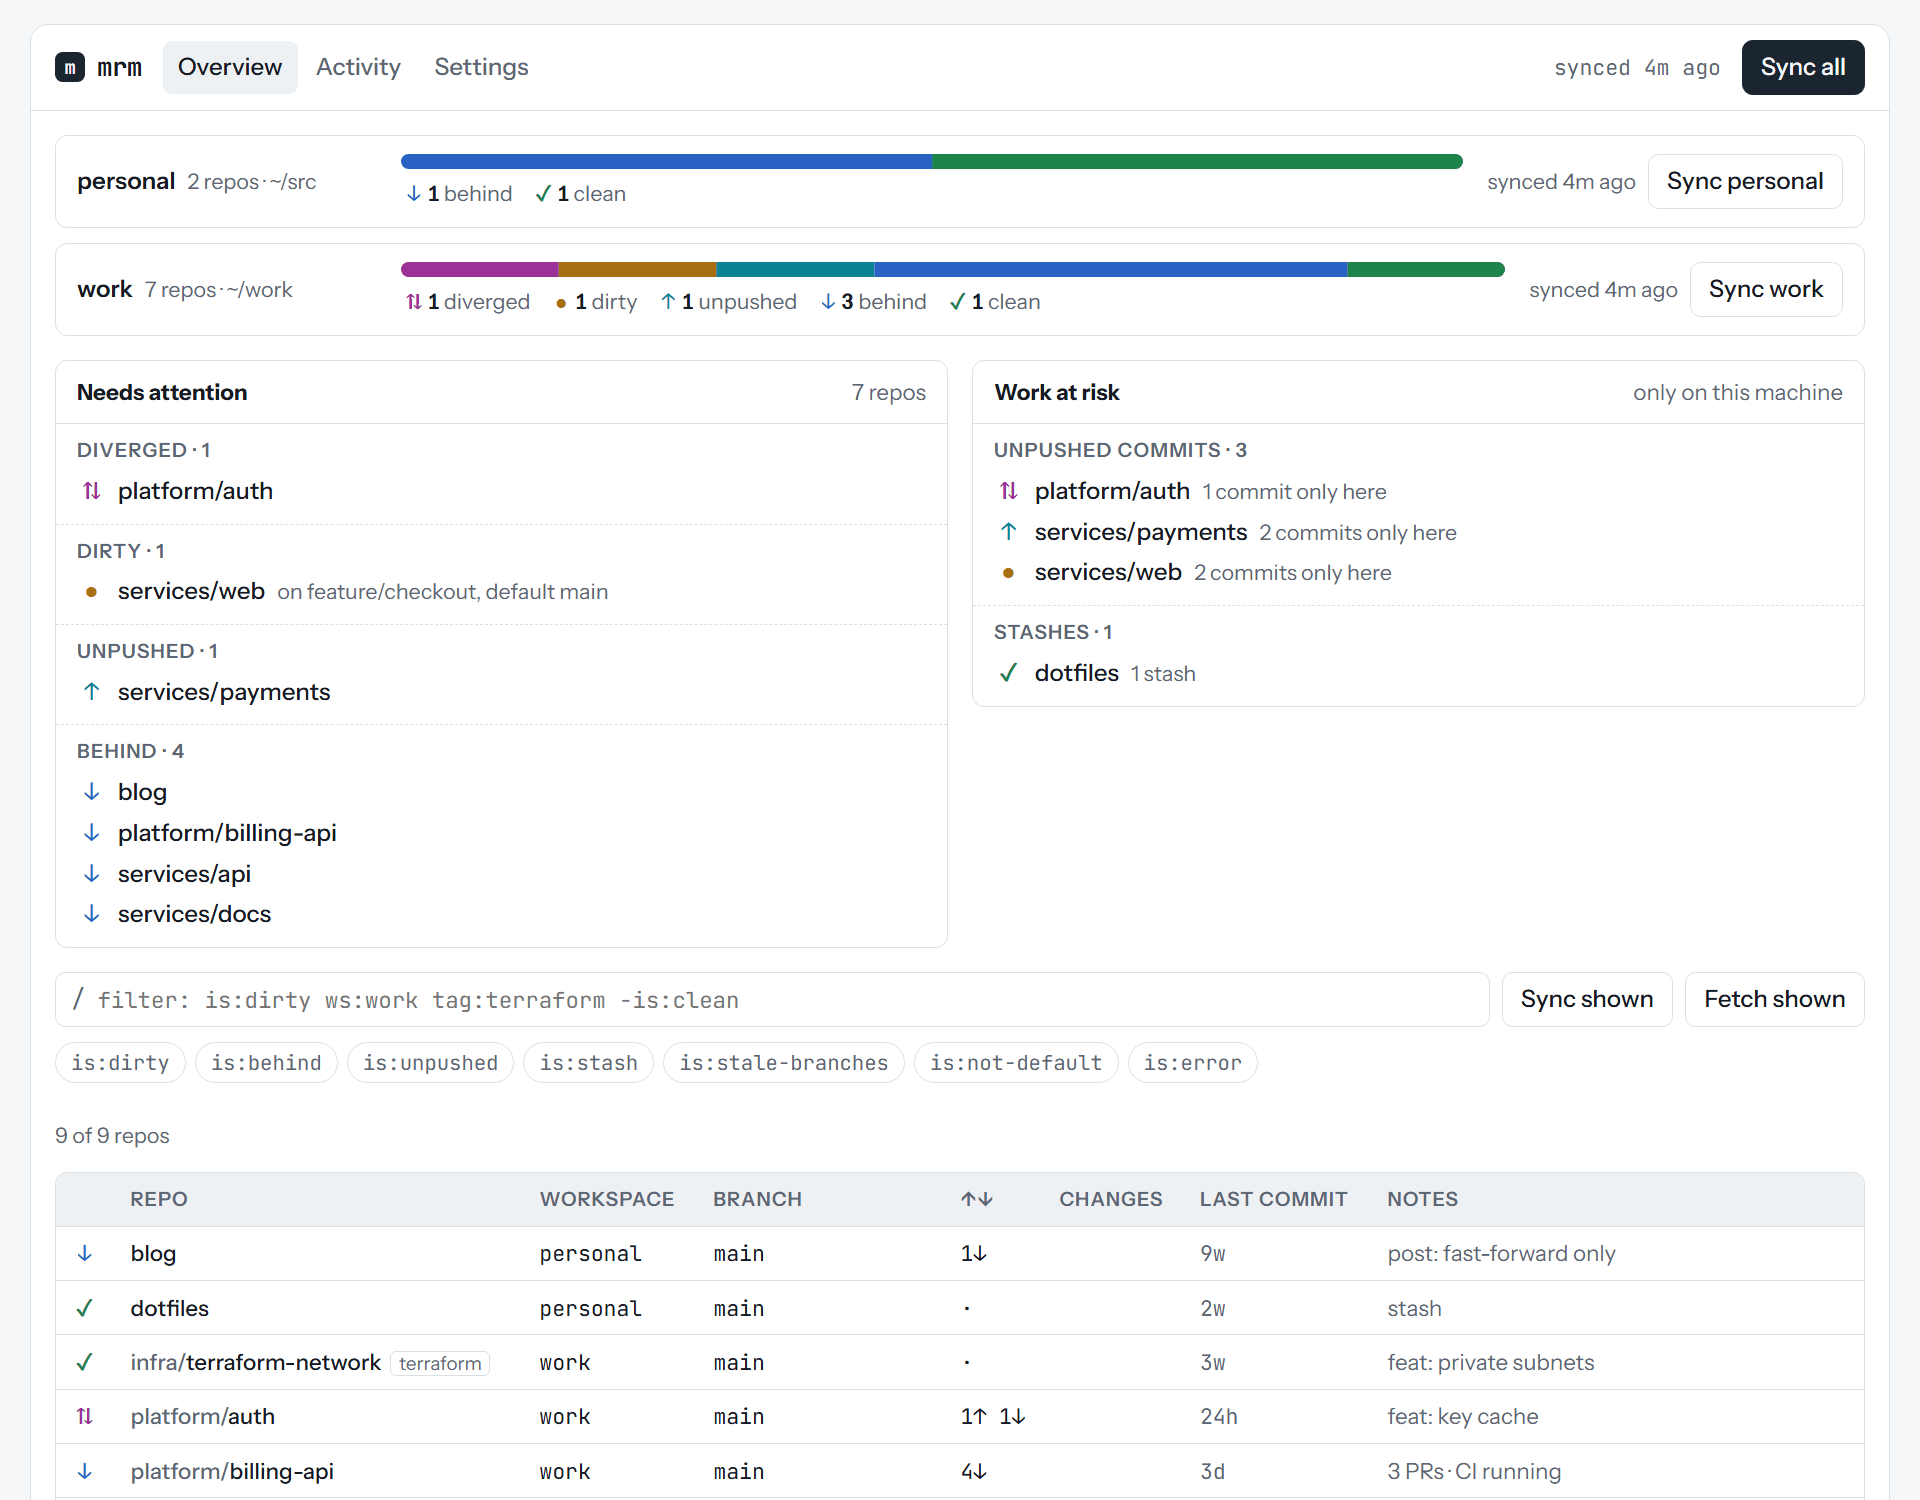
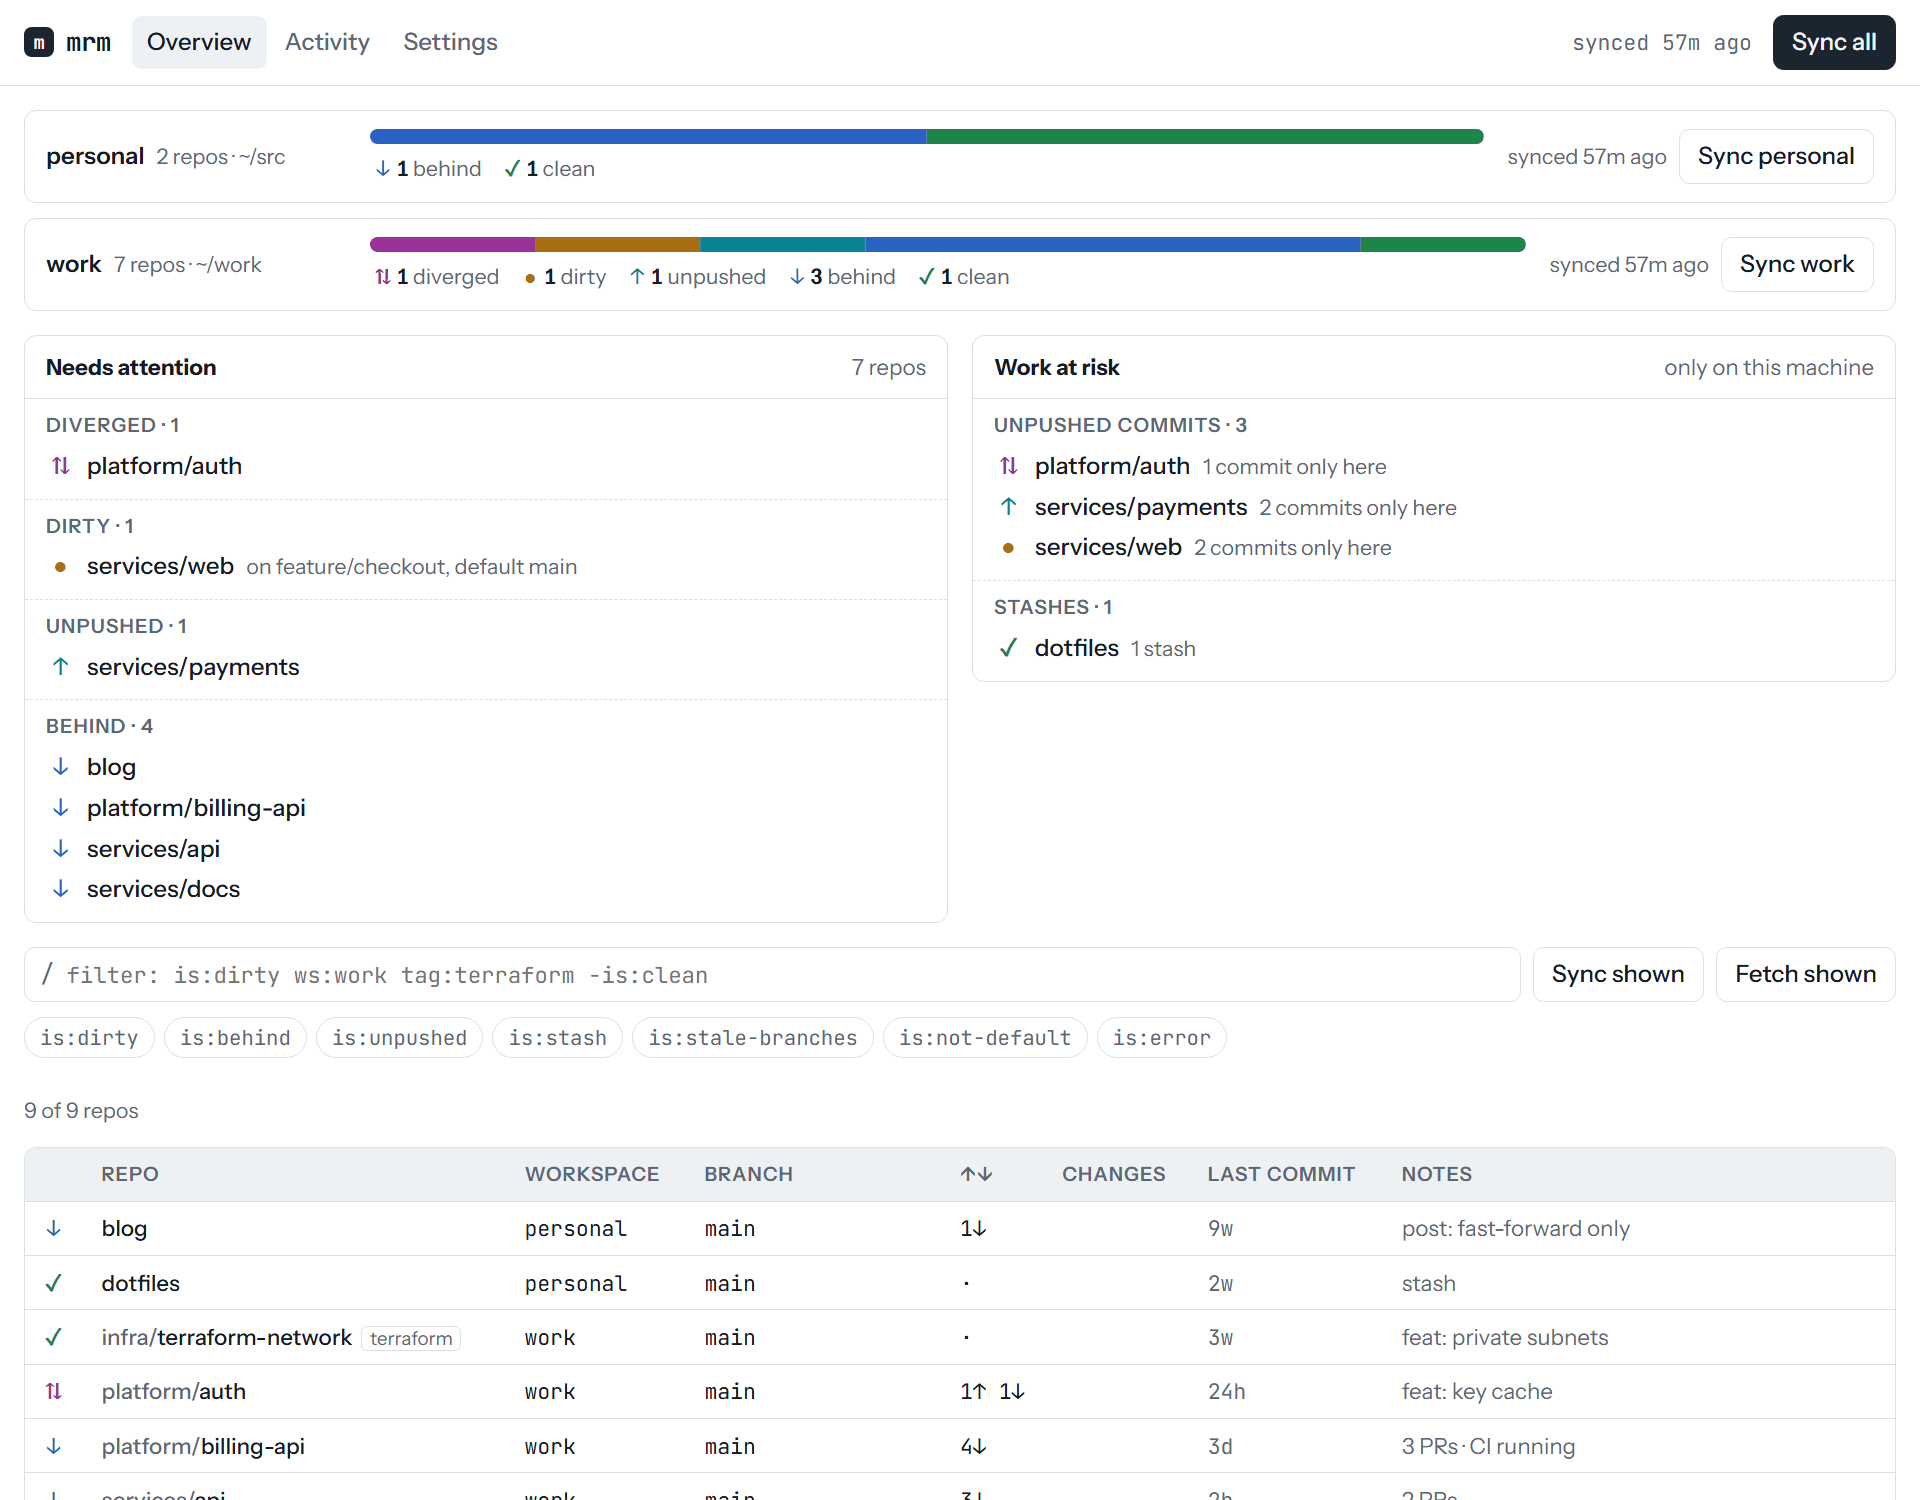
web: use the full width of the window
No 1240px cap, outer margin or card frame: the app fills the window and
the top bar is the header. Notes get up to 40% of the width. Docs
screenshots retaken.

diff --git a/internal/web/static/mrm.css b/internal/web/static/mrm.css
@@ -33,8 +33,7 @@ html { font-size: 16px; }
 * { box-sizing: border-box; }
 body {
   margin: 0; background: var(--bg); color: var(--fg); font-family: var(--font-ui); font-size: 1rem; line-height: 1.45;
-  padding-left: max(16px, env(safe-area-inset-left, 0px)); padding-right: max(16px, env(safe-area-inset-right, 0px));
-  padding-block: 16px 40px;
+  padding-left: env(safe-area-inset-left, 0px); padding-right: env(safe-area-inset-right, 0px);
 }
 .mono, code, pre { font-family: var(--font-mono); font-size: 0.893rem; font-variant-numeric: tabular-nums; }
 button, input { font: inherit; color: inherit; }
@@ -42,7 +41,8 @@ button, input { font: inherit; color: inherit; }
 a { color: inherit; }
 [hidden] { display: none !important; }
 
-.app { container-type: inline-size; max-width: 1240px; margin: 0 auto; background: var(--surface); border: 1px solid var(--line); border-radius: 12px; overflow: hidden; }
+/* The app fills the window: no width cap, no frame; the top bar is the header. */
+.app { container-type: inline-size; min-height: 100vh; background: var(--surface); }
 .topbar { display: flex; flex-wrap: wrap; align-items: center; gap: 10px 14px; padding: 10px 16px; border-bottom: 1px solid var(--line); }
 .wordmark { font-family: var(--font-mono); font-weight: 700; font-size: 1.071rem; letter-spacing: -0.02em; display: flex; align-items: center; gap: 8px; text-decoration: none; }
 .wordmark i { width: 1.25rem; height: 1.25rem; border-radius: 5px; background: var(--ink); display: inline-grid; place-items: center; color: var(--ink-fg); font-style: normal; font-size: 0.786rem; }
@@ -115,7 +115,7 @@ th { text-align: left; font-weight: 600; font-size: 0.821rem; text-transform: up
 td { padding: 7px 10px; border-bottom: 1px solid var(--line); vertical-align: baseline; white-space: nowrap; }
 tbody tr:last-child td { border-bottom: 0; }
 tbody tr:hover { background: var(--row-hi); }
-td.notes { color: var(--muted); max-width: 26rem; overflow: hidden; text-overflow: ellipsis; }
+td.notes { color: var(--muted); max-width: max(26rem, 40cqw); overflow: hidden; text-overflow: ellipsis; }
 td .name { font-weight: 500; text-decoration: none; }
 td .name:hover { text-decoration: underline; }
 .grp { color: var(--muted); }

diff --git a/README-dev.md b/README-dev.md
@@ -120,7 +120,7 @@ task docs:images    # Linux: needs python3 and util-linux script
 
 The SVGs follow the reader's light or dark theme (`prefers-color-scheme`) and place every character on a grid, so they line up whatever monospace font the reader has.
 
-Web screenshots: build a demo fleet with `bash docs/images/src/demo.sh /tmp/mrm-demo github`, then run `mrm web` against it with `HOME`, `GIT_CONFIG_NOSYSTEM=1` and the `XDG_*` variables pointing into `/tmp/mrm-demo` (as `mrm_in` in `src/make.sh` does). Take each page at 1280 px wide, 1.5x, once with the browser in light mode and once in dark: Overview 1280 x 1000, the `services/web` Repo page 1280 x 530. Save them as `docs/images/web-{overview,repo}-{light,dark}.png`, reduced to a 256-colour palette (about 40-85 KB each).
+Web screenshots: build a demo fleet with `bash docs/images/src/demo.sh /tmp/mrm-demo github`, then run `mrm web` against it with `HOME`, `GIT_CONFIG_NOSYSTEM=1` and the `XDG_*` variables pointing into `/tmp/mrm-demo` (as `mrm_in` in `src/make.sh` does). Take each page at 1280 px wide, 1.5x, once with the browser in light mode and once in dark: Overview 1280 x 1000, the `services/web` Repo page 1280 x 500. Save them as `docs/images/web-{overview,repo}-{light,dark}.png`, reduced to a 256-colour palette (about 40-85 KB each).
 
 ## Adding a Command
 1. `cmd/<name>.go` with a `cobra.Command`, registered in `init()`.

diff --git a/CHANGELOG.md b/CHANGELOG.md
@@ -18,6 +18,7 @@ and this project adheres to [Semantic Versioning](https://semver.org/spec/v2.0.0
 - Pictures in the README and the guide - `mrm status`, `mrm sync`, the interactive view and its detail pane, the web UI in light and dark, how mrm fits together, and what sync does to each repo. The terminal pictures are mrm's real output on a demo fleet, rebuilt with `task docs:images`.
 
 ### Changed
+- The web UI uses the full width of the window instead of a centred 1240 px card, so wide screens show more of each repo's notes. Phones get the same stacked layout as before.
 - Interactive view keys:
   - `←` / `→` step through the workspaces, with *all* as one of them.
   - `shift+tab` collapses every group, or expands them all when all are collapsed.
